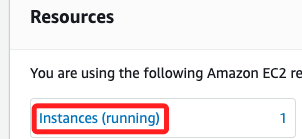
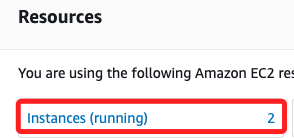
Commit on 2024-10-05 10:59:32

Changed region(s): [[0.0, 0.3768, 1.0, 1.0], [0.0306, 0.0, 0.398, 0.3478]]

diff --git a/01_課程筆記/00_Lab/95432/Lab11_Analyzing and Visualizing Streaming Data with Kinesis Data Firehose, OpenSearch Service, and OpenSearch Dashboards/01_Task 1.md b/01_課程筆記/00_Lab/95432/Lab11_Analyzing and Visualizing Streaming Data with Kinesis Data Firehose, OpenSearch Service, and OpenSearch Dashboards/01_Task 1.md
@@ -2,14 +2,54 @@
 
 _簡單回顧 EC2_
 
+<br>
+
 ## 檢查 EC2
 
-1. 進入 EC2，點擊 Resources 中的 `Instances(running)`。
+1. 進入 EC2，點擊 Resources 中的 `Instances(running)`，在這個 Lab 會有兩個實例。
 
-![](images/img_01.png)
+    ![](images/img_01.png)
 
-2. 點擊 ID 進入。
+<br>
 
-![](images/img_02.png)
+2. 看到其中名為 `OpenSearch Demo` 的實例，點擊其 ID 進入。
 
-3. 
+    ![](images/img_02.png)
+
+<br>
+
+3. 複製這個實例的 `Public IPv4 address` 備用。
+
+    ![](images/img_06.png)
+
+<br>
+
+## 查看安全設定
+
+1. 滑動到實例下方，切換到 `Security` 頁籤，並點擊 `IAM Role` 下方 `OsDemoWebserverIAMRole ` 的連結。
+
+    ![](images/img_07.png)
+
+<br>
+
+2. 這個角色下有三個 Policy，可點擊進入查看內容。
+
+    ![](images/img_08.png)
+
+<br>
+
+3. 點擊 `OsDemoWebserverIAMPolicy1` 進入查看。
+
+    ![](images/img_09.png)
+
+<br>
+
+4. 在 `JSON` 頁籤中，可從 JSON 文件查看權限設置；這個角色擁有對指定的 S3 Bucket 及其所有內部對象進行所有操作的 `完整權限（s3:*）`，包括但不限於 `讀取、寫入、刪除、列出` 等操作。
+
+    ![](images/img_10.png)
+
+<br>
+
+___
+
+_END_

diff --git a/01_課程筆記/00_Lab/95432/Lab11_Analyzing and Visualizing Streaming Data with Kinesis Data Firehose, OpenSearch Service, and OpenSearch Dashboards/README.md b/01_課程筆記/00_Lab/95432/Lab11_Analyzing and Visualizing Streaming Data with Kinesis Data Firehose, OpenSearch Service, and OpenSearch Dashboards/README.md
@@ -2,6 +2,14 @@
 
 <br>
 
+## 特別提醒
+
+1. 這個 Lab 啟動後一直呈現 `黃燈`，但點擊可以進入，若有其他異狀，將在各 Lab 筆記中作說明。
+
+    ![](images/img_11.png)
+
+<br>
+
 ## 說明
 
 1. 這個 Lab 探討如何處理和分析來自網頁伺服器的實時串流數據，並通過 `OpenSearch Dashboards` 進行數據可視化，將使用 `Amazon Kinesis Data Streams` 從 `EC2` 網頁伺服器收集訪問日誌，並通過 `AWS Lambda` 進行數據處理與增強，最後通過 `OpenSearch Service` 將數據索引，並在 `OpenSearch Dashboards` 上建立可視化報表來進行數據分析。
